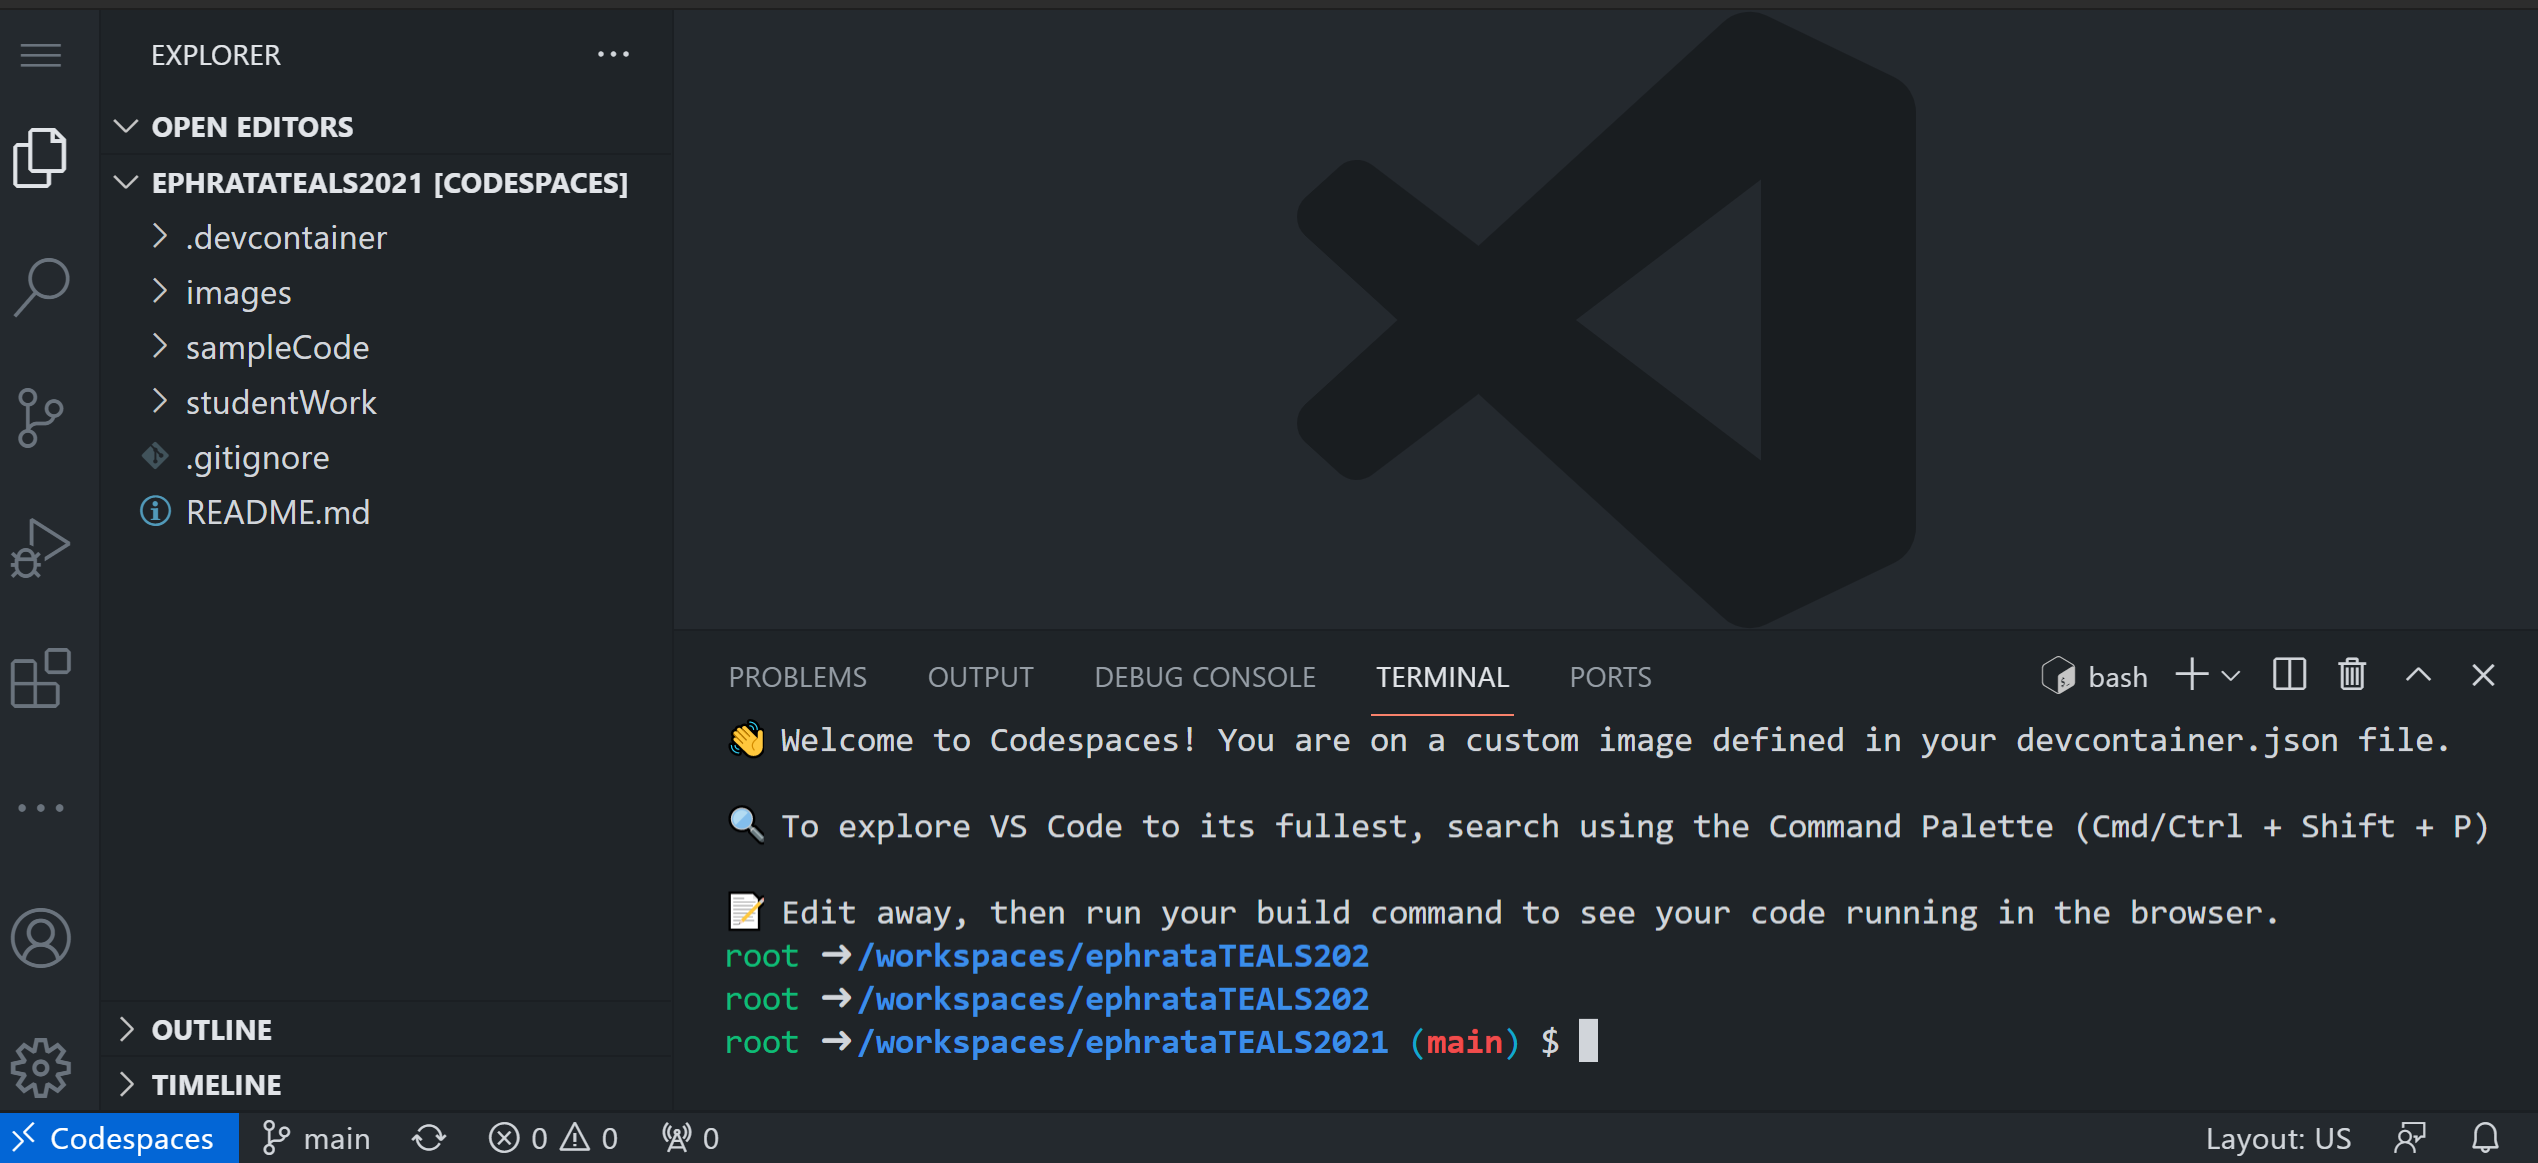
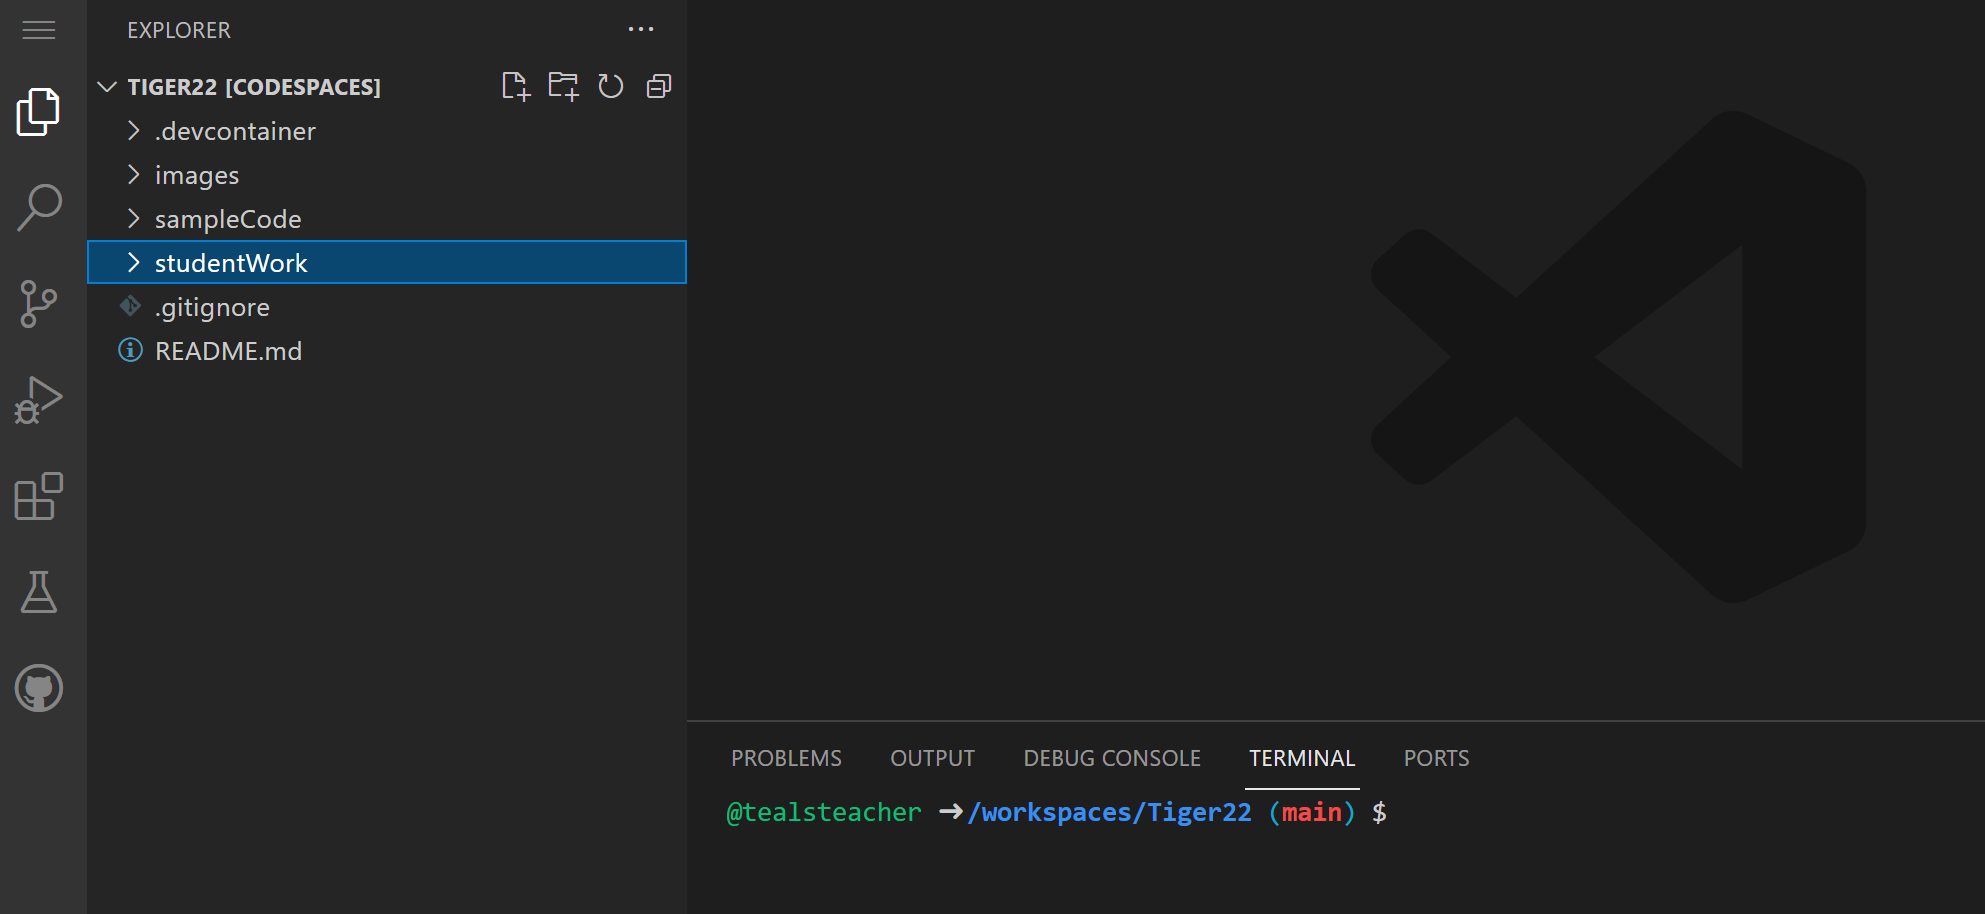
Update1

diff --git a/README.md b/README.md
@@ -1,4 +1,5 @@
-# TEALS GitHub Codespaces for Ephrata High School
+# Codespaces, Content, and Container Repo for Ephrata High School AP Computer Science Java Course
+
 ## Creates a Development Container for Java on GitHub Codespaces
 
 These instructions will guide you through the process of setting up Codespaces, an online IDE. _IDE_ stands for _Integrated Development Environment_, which is a program that software developers use to write code. You can use any text editor to write code, but an IDE makes it _much_ easier.
@@ -9,58 +10,66 @@ Think of Codespaces like Microsoft Word for code. You can write a really long es
 
 Create a GitHub account. GitHub is a free service that stores code for you in the cloud. It is the industry standard for storing and sharing software code. Think of it like Google Drive for code!
 
-For your username, `<firstname>-<lastinitial>-ephrata-teals` format. So, if your name was Jane Doe, your username would be `jane-d-ephrata-teals`.
+For your username you can pick any available username, or something like: `<firstname>-<lastinitial>-ephrata-teals` format. So, if your name was Jane Doe, your username would be `jane-d-ephrata-teals`.
 
-  1. In a new tab in Chrome, go to https://github.com
+  1. In a new tab in your browser, go to https://github.com
   2. Click "Sign up" in the top right corner
-  3. Enter your username in the `<firstname>-<lastinitial>-ephrata-teals` format
+  3. Enter your username (one of your choice available) or in the `<firstname>-<lastinitial>-ephrata-teals` format
   4. Enter your `@ephrataschools.org` email
   5. Choose a password
   6. Solve the verification puzzle
   7. Click "Create account"
-  8. In a new tab in Chrome, go to GMail. You should see an email from Github asking you to verify your email address
+  8. In a new tab in your browser, go to the Ephrata High School GMail. You should see an email from Github asking you to verify your email address
   9. Open the email and click "Verify email address"
   
-### Fork the EphrataTEALS repository
+### Fork the Tiger22 GitHub Repository
 
 In this step you'll be copying an existing Github _repository_ to your own account. You can think of a repository as a special kind of folder for code. It's actually much more complicated (and powerful) than that, but you'll learn about all of that another time.
 
-  1. In a new tab in Chrome, go to https://github.com/DataSnowman/ephrataTEALS2021
+  1. In a new tab in your browser, go to https://github.com/EphrataTEALS/Tiger22 
+  
   2. Click on "Fork" in the top right corner
 
-        ![fork](https://raw.githubusercontent.com/DataSnowman/ephrataTEALS2021/main/images/fork.png)
+        ![fork](https://raw.githubusercontent.com/EphrataTEALS/Tiger22/main/images/fork.png)
         
-  3. If you are asked "Where should we fork EphrataTEALS?", click on your new Github username
+  3. If you are asked "Where should we fork Tiger22?", click on your new Github username
 
-        ![forkdest](https://raw.githubusercontent.com/DataSnowman/ephrataTEALS2021/main/images/forkdest.png)
+        ![forkdest](https://raw.githubusercontent.com/EphrataTEALS/Tiger22/main/images/forkdest.png)
 
-You now have a copy of the EphrataTEALS repository in your GitHub. This is what you should see:
+You now have a copy of the Tiger22 repository in your GitHub. This is what you should see:
 
-![yourcopy](https://raw.githubusercontent.com/DataSnowman/ephrataTEALS2021/main/images/yourcopy.png)
+![yourcopy](https://raw.githubusercontent.com/EphrataTEALS/Tiger22/main/images/yourcopy.png)
 
-My username was darsch so the repository shows up as `darsh/ephrataTEALS2021`.
+My username was tealsteacher so the repository shows up as `tealsteacher/Tiger22`.
 
-Yours should be `<firstname>-<lastinitial>-ephrata-teals/ephrataTEALS2021`.
+Yours should be `<yourusername>/Tiger22`.
 
-**Configure Codespaces and GitHub settings and remote for fork**
+**Configure Codespaces**
 
-Click on Code and select `Open with Codespaces`
+Click on Code and select `Codespaces`
 
-![openWithCodespaces](https://raw.githubusercontent.com/DataSnowman/ephrataTEALS2021/main/images/openWithCodespaces.png)
+![openWithCodespaces](https://raw.githubusercontent.com/EphrataTEALS/Tiger22/main/images/openWithCodespaces.png)
 
-Click on `+ New codespace on current branch`
+Click on `New codespace`
 
-![newCodespace](https://raw.githubusercontent.com/DataSnowman/ephrataTEALS2021/main/images/newCodespace.png)
+![newCodespace](https://raw.githubusercontent.com/EphrataTEALS/Tiger22/main/images/newCodespace.png)
+
+Select a Machine Type.  Recommend a 4-core 8GB RAM
+Click on Create codespace
+
+![machinetype](https://raw.githubusercontent.com/EphrataTEALS/Tiger22/main/images/machinetypeb.png)
 
 When the Codespace opens it should look something like this
 
-![yourCodespace](https://raw.githubusercontent.com/DataSnowman/ephrataTEALS2021/main/images/yourCodespace.png)
+![yourCodespace](https://raw.githubusercontent.com/EphrataTEALS/Tiger22/main/images/yourCodespace.png)
+
+**Configure GitHub settings and remote for fork**
 
 This step will involve entering some commands into the terminal, or command line. If this if the first time you've used a terminal, it can be intimidating. Don't worry! Just follow the directions and copy and paste the commands exactly. When an instruction says to _enter_ a command, it means to type (or paste) the command, and then press the Enter key to execute it.
 
   1. Open a terminal in your Codspace using the keyboard shortcut ``Ctrl + ` `` (you can also go to the menu in the top left and select Terminal > New Terminal) 
        
-       ![terminalMenu](https://raw.githubusercontent.com/DataSnowman/ephrataTEALS2021/main/images/terminalMenu.png)
+       ![terminalMenu](https://raw.githubusercontent.com/EphrataTEALS/Tiger22/main/images/terminalMenu.png)
 
   Make sure it is a bash shell
 
@@ -78,7 +87,7 @@ git status
 
   Your terminal should now look like the following, except it will say "ephrataTEALS2021" instead of "TEALS1":
 
-  ![terminalOutput](https://raw.githubusercontent.com/DataSnowman/ephrataTEALS2021/main/images/terminalOutput.png)
+  ![terminalOutput](https://raw.githubusercontent.com/EphrataTEALS/Tiger22/main/images/terminalOutput.png)
 
   4. Enter the following command, replacing `<GitHubusername>` with the `<firstname>-<lastinitial>-ephrata-teals` username you created earlier:
 
@@ -165,12 +174,12 @@ public class CodespacesBeta {
   2. Codespaces may automatically open some other tabs. If this happens, just close them and return to `CodespacesBeta.java`.
   3. On the sidebar, click the "Run" button (the one with the play button and the little bug):
 
-   ![run](https://raw.githubusercontent.com/DataSnowman/ephrataTEALS2021/main/images/run.png)
+   ![run](https://raw.githubusercontent.com/EphrataTEALS/Tiger22/main/images/run.png)
 
   3. Click "Run and Debug". Again, Codespaces may automatically open some other tabs. If this happens, close them and click "Run and Debug" again.
   4. You should see the following output in the terminal:
 
-  ![terminal](https://raw.githubusercontent.com/DataSnowman/ephrataTEALS2021/main/images/terminal.png)
+  ![terminal](https://raw.githubusercontent.com/EphrataTEALS/Tiger22/main/images/terminal.png)
 
 Congratulations! You just ran your first program!
 
